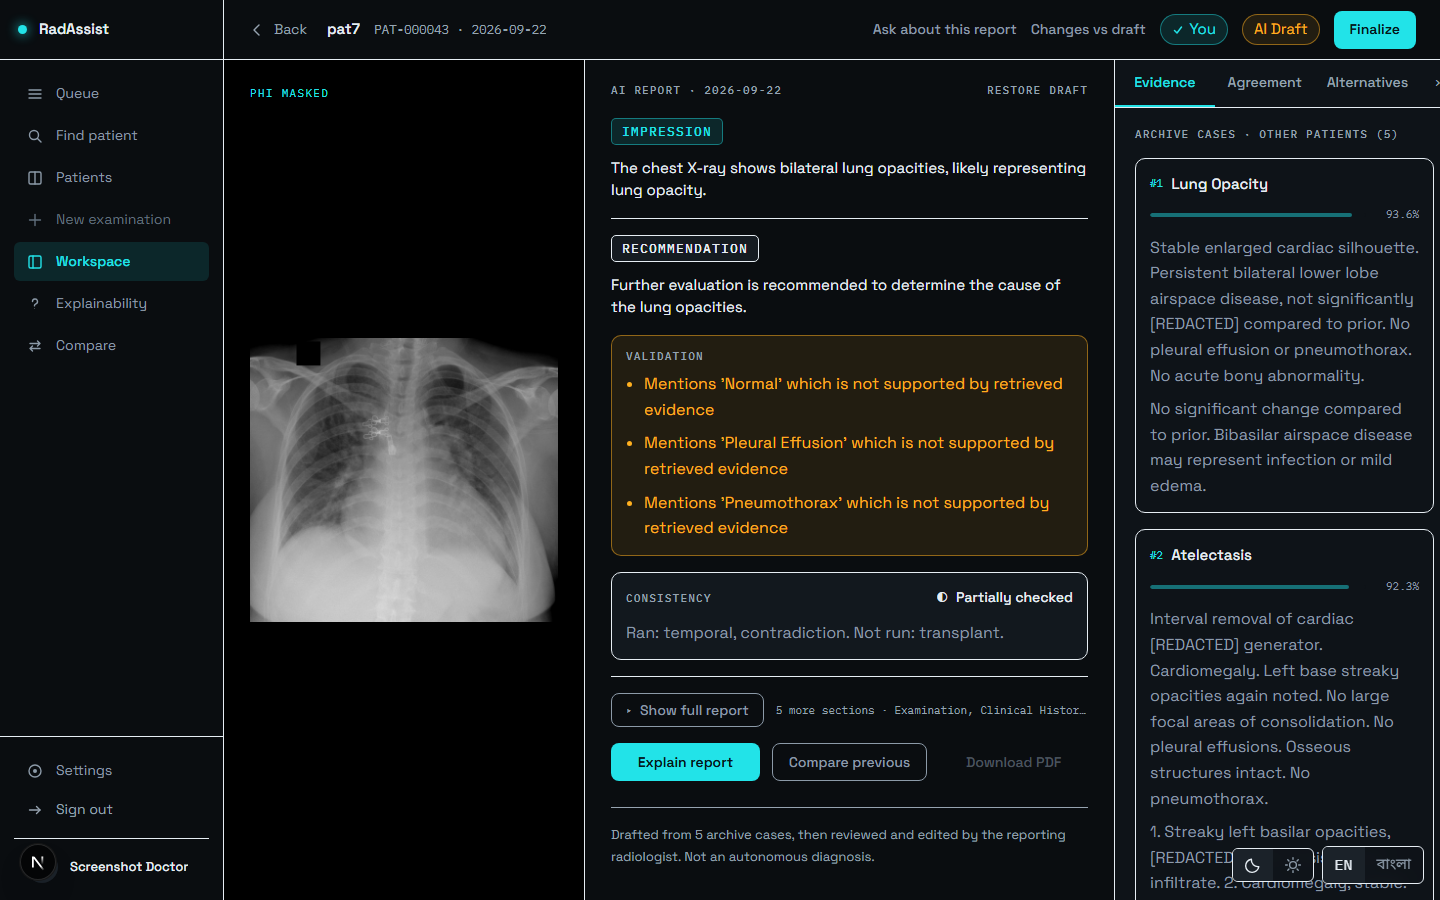
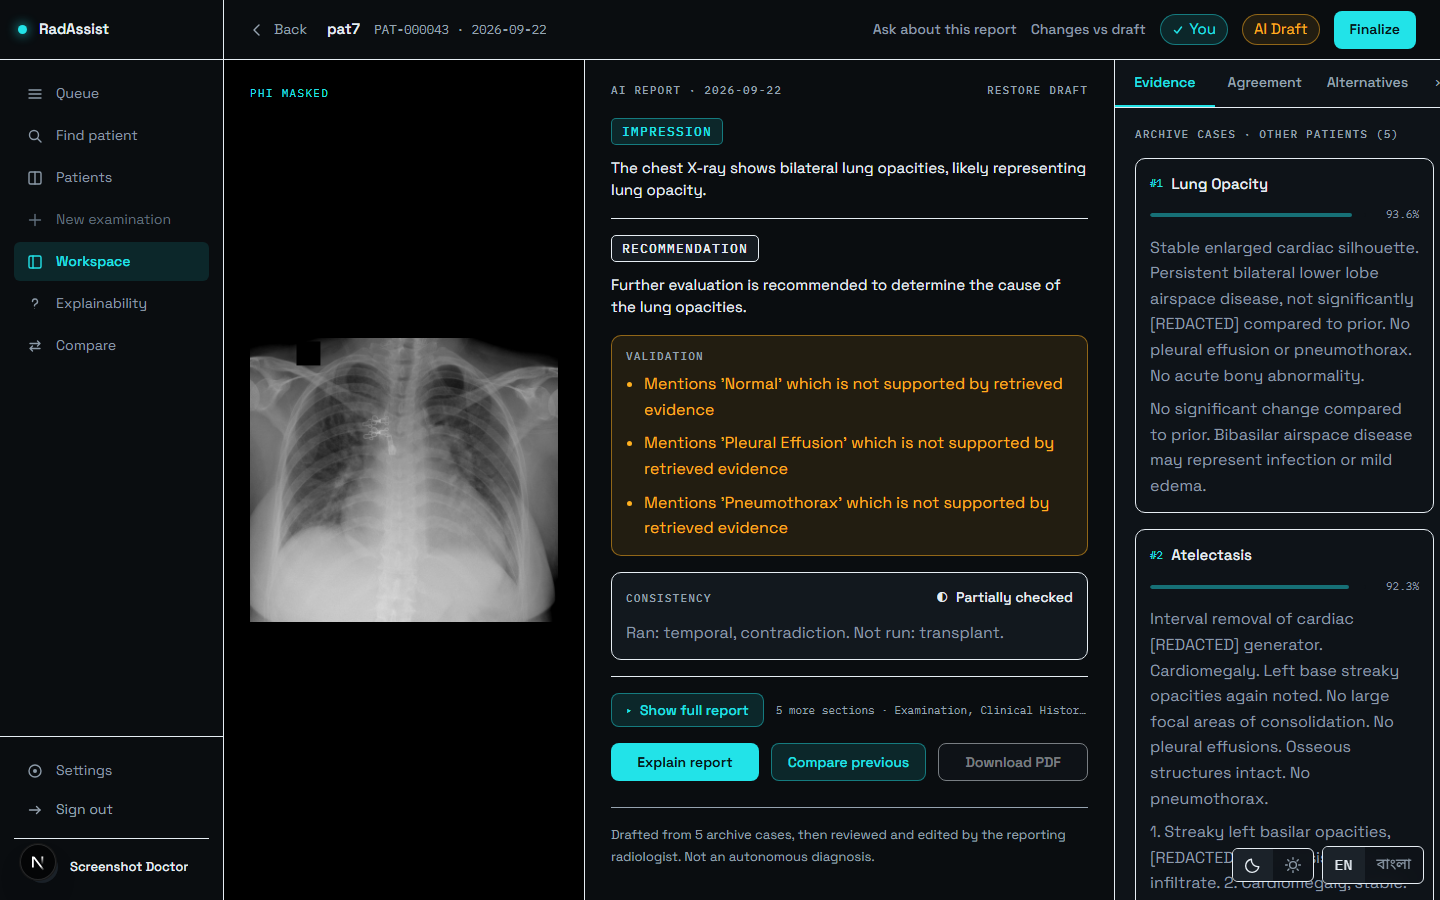
feat(ui): give the quiet button variants a colour and a surface
Reported from the rendered screen: the buttons were hard to see. `secondary`
was a thin grey outline around grey caption text with no fill, which on a
near-black page next to a solid cyan primary simply disappeared -- "Compare
previous" did not read as something you could press. `ghost` had neither border
nor fill, so the disabled Download PDF read as a stray line of text rather than
a control.

`secondary` is now a cyan OUTLINE button: cyan text on the cyan wash, cyan
line, inverting to solid cyan on hover. `ghost` keeps the neutral ramp -- it is
for actions that are genuinely not offers -- but gains a border and a fill so
it reads as a control. `primary` and `danger` are unchanged.

Hierarchy is carried by FILL rather than by hue, so the two accents are still
the only two: solid cyan is the one primary action per view, cyan-on-wash is a
real but secondary action, and the two stay trivially distinguishable side by
side. No third colour, no hex, and the design gate passes unchanged.

All fourteen button states measured in both themes, including hover and the
ink-on-accent pairs. Lowest is 5.30:1 (secondary at rest on bg-app, light);
every state clears WCAG AA. Dark runs 9.27:1-15.12:1.

Suite 90 passed; tsc, eslint and check:design clean. Screenshots re-captured in
both themes. No backend file changed.

Changed region(s): [[0.5312, 0.8089, 0.75, 0.8711], [0.4062, 0.7467, 0.5312, 0.8089], [0.4375, 0.84, 0.5, 0.8711]]

diff --git a/frontend/src/components/ui/button.tsx b/frontend/src/components/ui/button.tsx
@@ -25,10 +25,32 @@ export const BUTTON_BASE =
   "transition-[color,background-color,filter,transform] duration-hover " +
   "active:scale-[0.98] disabled:opacity-50 disabled:pointer-events-none disabled:active:scale-100";
 
+/**
+ * Every variant now carries a surface and a colour, because the quiet ones did
+ * not read as buttons at all.
+ *
+ * `secondary` was `border-strong` + `text-text-secondary` with no fill: a thin
+ * grey outline around grey caption text on a near-black page. Next to a solid
+ * cyan primary it disappeared, and "Compare previous" was reported as not
+ * looking like something you could press. It is now a cyan OUTLINE button --
+ * the accent this product already uses for interaction, in its wash-and-line
+ * form. Hierarchy is carried by fill rather than by hue: solid cyan is the one
+ * primary action per view, cyan-on-wash is a real but secondary action, and
+ * they stay trivially distinguishable side by side.
+ *
+ * `ghost` keeps the neutral ramp -- it is the variant for actions that are
+ * genuinely not offers (the out-of-scope Download PDF) -- but it gets a border
+ * and a fill so it reads as a control in a disabled state rather than as a
+ * stray line of text.
+ *
+ * Still two accents. Nothing here introduces a third hue, and `danger` remains
+ * amber because this theme has no red.
+ */
 export const VARIANT: Record<Variant, string> = {
   primary: "bg-cyan text-cyan-ink font-semibold hover:brightness-110",
-  secondary: "border border-strong text-text-secondary hover:bg-bg-hover hover:text-text-primary",
-  ghost: "text-text-secondary hover:bg-bg-hover hover:text-text-primary",
+  secondary:
+    "border border-cyan-line bg-cyan-wash text-cyan hover:bg-cyan hover:text-cyan-ink hover:border-cyan",
+  ghost: "border border-strong bg-bg-hover text-text-primary hover:border-cyan-line hover:text-cyan",
   danger: "bg-amber text-amber-ink font-semibold hover:brightness-110",
 };
 
